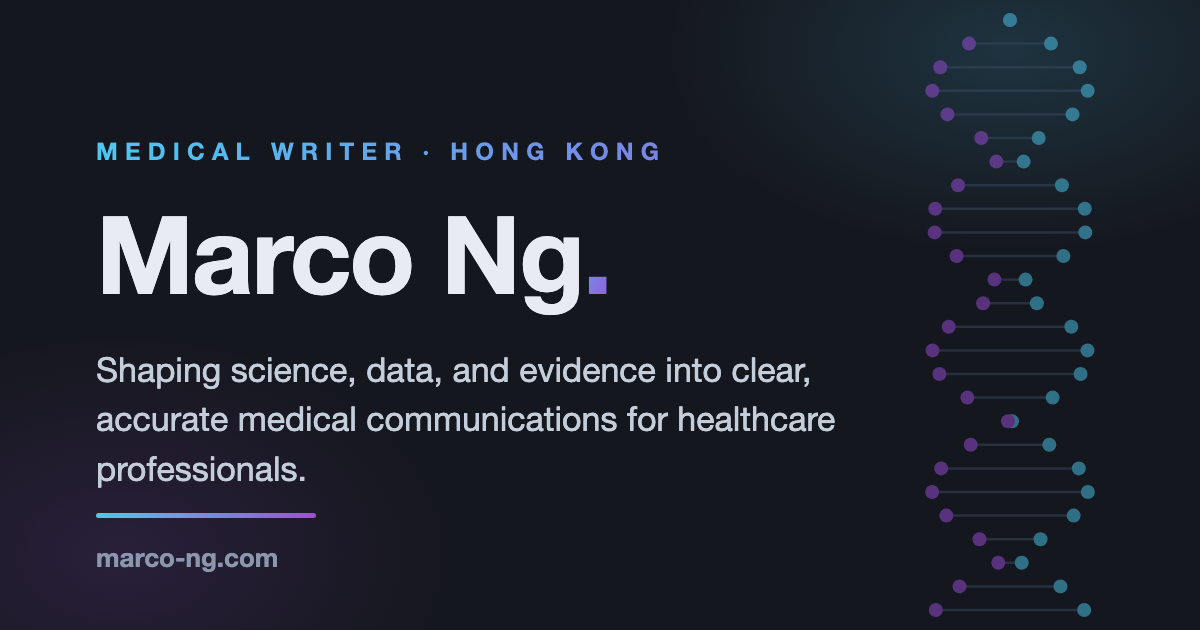
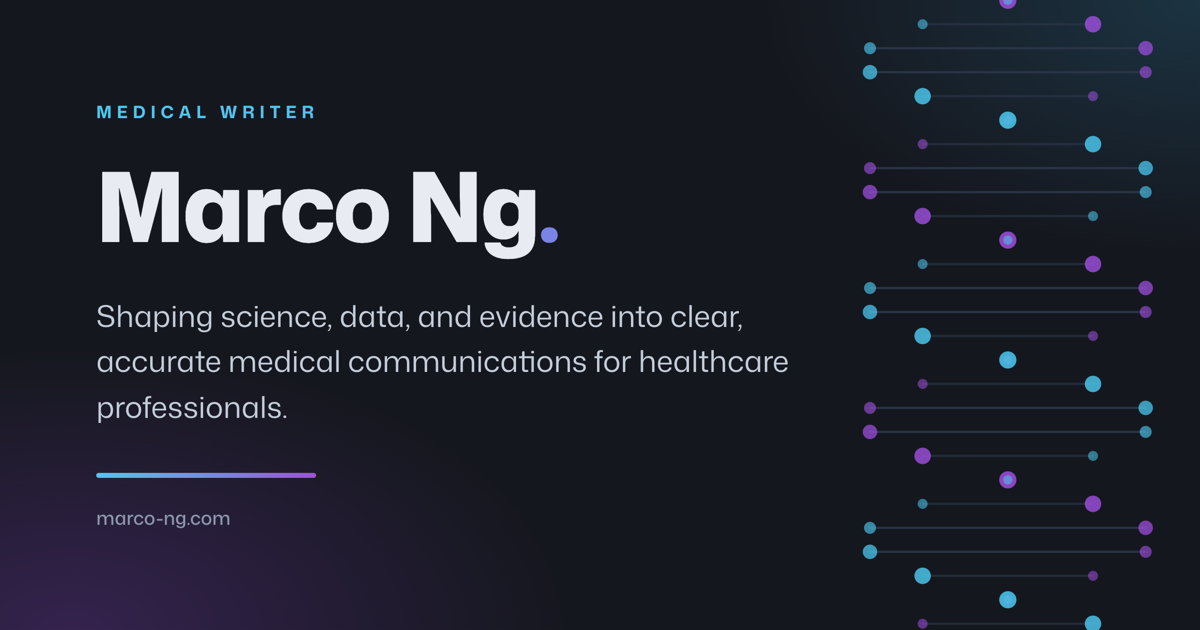
Remove Hong Kong location information from the site
Ten places across markup, copy, structured data and one binary image.

Text and data:
- index.html: title, og:title, twitter:title and og:image:alt lose "in Hong
  Kong"; the meta description and the <noscript> fallback lose the phrase.
- index.html JSON-LD: the whole "address" property goes, not just its value.
  A PostalAddress with no locality asserts nothing, and address is optional
  on schema.org/Person. This one was machine-readable and would have kept
  feeding search engines' entity graphs after the visible copy was clean.
- contactLinks: the "Based in: Hong Kong" row goes; a second number is added
  alongside the existing one. The rows are labelled "Phone" and "Phone (alt)"
  rather than by country, since "Phone (HK)" would reintroduce exactly the
  string being removed.
- Contact.jsx: footer tag becomes "Medical writer". The map's React key moves
  from link.label to link.value — two phone rows make label collisions likely,
  and duplicate keys silently corrupt reconciliation.
- README.md and CLAUDE.md, since the repo is public.

og-image.png was the one a find-and-replace could never reach: it renders
"MEDICAL WRITER · HONG KONG" as pixels, so every link preview would have kept
showing the location. It had no source file, so tools/og-image.html is added
as one — colours sampled from the original rather than guessed, helix rebuilt
parametrically from the measured 240px period and 145px amplitude. Rendered at
[…]

diff --git a/tools/og-image.html b/tools/og-image.html
@@ -1,0 +1,187 @@
+<!doctype html>
+<html lang="en">
+
+<head>
+  <meta charset="UTF-8" />
+  <title>og-image source — Marco Ng</title>
+
+  <!--
+    SOURCE FOR public/og-image.png (1200x630 social share card).
+
+    The PNG used to be a committed binary with no source, which meant a one-word
+    copy change needed a design tool. Keep this file in step with the PNG.
+
+    To re-render (needs Chrome; run from the repo root):
+      python3 -m http.server 8099 &
+      "/Applications/Google Chrome.app/Contents/MacOS/Google Chrome" \
+        --headless=new --remote-debugging-port=9222 --user-data-dir=/tmp/og-chrome \
+        about:blank &
+      # drive Page.captureScreenshot at deviceScaleFactor 2 (2400x1260), then:
+      sips -z 630 1200 shot.png --out public/og-image.png
+
+    Rendering at 2x and downscaling is what keeps the type crisp; a straight 1x
+    screenshot renders the wordmark noticeably softer.
+
+    Lives in tools/ rather than public/ deliberately — anything in public/ is
+    copied into dist/ and served, and this is build tooling, not a site asset.
+
+    Colours below were sampled from the original PNG rather than guessed, so the
+    card keeps its exact palette. #15171e is the site's own background token.
+  -->
+
+  <link rel="preconnect" href="https://fonts.googleapis.com" />
+  <link rel="preconnect" href="https://fonts.gstatic.com" crossorigin />
+  <link rel="stylesheet"
+    href="https://fonts.googleapis.com/css2?family=Mona+Sans:ital,wght@0,200..900;1,200..900&display=swap" />
+
+  <style>
+    :root {
+      --ground: #15171e;
+      --cyan: #4dc8f0;
+      --periwinkle: #7986e6;
+      --violet: #9c50de;
+      --heading: #e8ebf2;
+      --body: #c4cdda;
+      --muted: #8b97ad;
+      --rung: #273040;
+    }
+
+    * { margin: 0; padding: 0; box-sizing: border-box; }
+
+    body {
+      width: 1200px;
+      height: 630px;
+      overflow: hidden;
+      position: relative;
+      background: var(--ground);
+      font-family: "Mona Sans", system-ui, -apple-system, "Segoe UI", sans-serif;
+      -webkit-font-smoothing: antialiased;
+    }
+
+    /* the two corner washes the original carries: violet low-left, teal high-right */
+    .glow {
+      position: absolute;
+      inset: 0;
+      background:
+        radial-gradient(58% 62% at 6% 100%, rgba(126, 62, 190, 0.30), transparent 72%),
+        radial-gradient(52% 58% at 100% 0%, rgba(46, 132, 168, 0.26), transparent 70%);
+    }
+
+    .card {
+      position: absolute;
+      inset: 0;
+      padding: 0 96px;
+      display: flex;
+      flex-direction: column;
+      justify-content: center;
+    }
+
+    .eyebrow {
+      font-size: 17px;
+      font-weight: 700;
+      letter-spacing: 0.30em;
+      text-transform: uppercase;
+      background: linear-gradient(90deg, var(--cyan), #60abeb);
+      -webkit-background-clip: text;
+      background-clip: text;
+      color: transparent;
+      margin-bottom: 34px;
+    }
+
+    .wordmark {
+      font-size: 96px;
+      font-weight: 800;
+      letter-spacing: -0.022em;
+      line-height: 1;
+      color: var(--heading);
+      margin-bottom: 40px;
+    }
+
+    .wordmark .dot { color: #7a84e5; }
+
+    .lede {
+      font-size: 30px;
+      font-weight: 400;
+      line-height: 1.52;
+      color: var(--body);
+      max-width: 745px;
+      margin-bottom: 44px;
+    }
+
+    .rule {
+      width: 220px;
+      height: 5px;
+      border-radius: 999px;
+      background: linear-gradient(90deg, var(--cyan), var(--violet));
+      margin-bottom: 26px;
+    }
+
+    .url { font-size: 19px; font-weight: 500; color: var(--muted); }
+
+    /* decorative motif; bleeds off the top and bottom edges like the original */
+    #helix { position: absolute; top: 0; left: 858px; width: 300px; height: 630px; }
+  </style>
+</head>
+
+<body>
+  <div class="glow"></div>
+
+  <svg id="helix" viewBox="0 0 300 630" aria-hidden="true"></svg>
+
+  <div class="card">
+    <p class="eyebrow">Medical Writer</p>
+    <h1 class="wordmark">Marco Ng<span class="dot">.</span></h1>
+    <p class="lede">
+      Shaping science, data, and evidence into clear, accurate medical
+      communications for healthcare professionals.
+    </p>
+    <div class="rule"></div>
+    <p class="url">marco-ng.com</p>
+  </div>
+
+  <script>
+    // Parametric double helix: two sine strands 180 degrees out of phase, joined
+    // by rungs. Drawn rather than hand-placed so the motif stays editable —
+    // change PERIOD/AMP/STEP and it re-lays itself out.
+    (function () {
+      const svg = document.getElementById("helix");
+      const NS = "http://www.w3.org/2000/svg";
+      // PERIOD measured off the original: its narrow points (where the strands
+      // cross) sit ~120px apart, and those are a HALF period, so 240. AMP 145
+      // reproduces the original's 863..1153 horizontal span.
+      const CX = 150, AMP = 145, PERIOD = 240, STEP = 24;
+
+      const add = (name, attrs) => {
+        const el = document.createElementNS(NS, name);
+        for (const k in attrs) el.setAttribute(k, attrs[k]);
+        svg.appendChild(el);
+        return el;
+      };
+
+      // rungs first so the nodes sit on top of them
+      for (let y = -120; y <= 750; y += STEP) {
+        const p = Math.sin((y / PERIOD) * Math.PI * 2);
+        add("line", {
+          x1: CX + AMP * p, y1: y, x2: CX - AMP * p, y2: y,
+          stroke: "#2c3548", "stroke-width": 2.2, "stroke-linecap": "round",
+          opacity: (0.85 * Math.abs(p) + 0.15).toFixed(3),
+        });
+      }
+
+      for (let y = -120; y <= 750; y += STEP) {
+        const p = Math.sin((y / PERIOD) * Math.PI * 2);
+        const depth = Math.cos((y / PERIOD) * Math.PI * 2); // +1 near, -1 far
+        // near nodes read a little larger and brighter — that is what sells depth
+        // on a flat drawing, and keeps the two strands legible where they cross
+        const node = (cx, near, fill) => add("circle", {
+          cx, cy: y, r: (6.6 + 2.0 * near).toFixed(2), fill,
+          opacity: (0.52 + 0.33 * ((near + 1) / 2)).toFixed(3),
+        });
+        node(CX + AMP * p, depth, "#9d4edd");
+        node(CX - AMP * p, -depth, "#4cc9f0");
+      }
+    })();
+  </script>
+</body>
+
+</html>

diff --git a/index.html b/index.html
@@ -28,9 +28,9 @@
   <link rel="stylesheet"
     href="https://fonts.googleapis.com/css2?family=Mona+Sans:ital,wght@0,200..900;1,200..900&display=swap" />
 
-  <title>Marco Ng — Medical Writer in Hong Kong</title>
+  <title>Marco Ng — Medical Writer</title>
   <meta name="description"
-    content="Marco Ng is a medical writer in Hong Kong creating promotional and educational content for healthcare professionals — detail aids, MOA visuals, and data-driven medical communications for pharma and biotech." />
+    content="Marco Ng is a medical writer creating promotional and educational content for healthcare professionals — detail aids, MOA visuals, and data-driven medical communications for pharma and biotech." />
   <link rel="canonical" href="https://marco-ng.com/" />
   <meta name="theme-color" content="#15171e" />
 
@@ -38,17 +38,17 @@
   <meta property="og:type" content="website" />
   <meta property="og:url" content="https://marco-ng.com/" />
   <meta property="og:site_name" content="Marco Ng — Medical Writer" />
-  <meta property="og:title" content="Marco Ng — Medical Writer in Hong Kong" />
+  <meta property="og:title" content="Marco Ng — Medical Writer" />
   <meta property="og:description"
     content="Promotional and educational content for healthcare professionals — detail aids, MOA visuals, and data-driven medical communications for pharma and biotech." />
   <meta property="og:image" content="https://marco-ng.com/og-image.png" />
   <meta property="og:image:width" content="1200" />
   <meta property="og:image:height" content="630" />
-  <meta property="og:image:alt" content="Marco Ng — Medical Writer in Hong Kong" />
+  <meta property="og:image:alt" content="Marco Ng — Medical Writer" />
 
   <!-- Twitter card -->
   <meta name="twitter:card" content="summary_large_image" />
-  <meta name="twitter:title" content="Marco Ng — Medical Writer in Hong Kong" />
+  <meta name="twitter:title" content="Marco Ng — Medical Writer" />
   <meta name="twitter:description"
     content="Promotional and educational content for healthcare professionals — detail aids, MOA visuals, and data-driven medical communications for pharma and biotech." />
   <meta name="twitter:image" content="https://marco-ng.com/og-image.png" />
@@ -66,10 +66,6 @@
             "jobTitle": "Medical Writer",
             "url": "https://marco-ng.com/",
             "email": "mailto:ngyautin@gmail.com",
-            "address": {
-              "@type": "PostalAddress",
-              "addressLocality": "Hong Kong"
-            },
             "knowsAbout": [
               "Medical writing",
               "Medical communications",
@@ -105,9 +101,9 @@
   <div id="root"></div>
   <noscript>
     <p>
-      Marco Ng is a medical writer based in Hong Kong, creating promotional
-      and educational content for healthcare professionals across pharma and
-      biotech. Contact: ngyautin@gmail.com
+      Marco Ng is a medical writer creating promotional and educational
+      content for healthcare professionals across pharma and biotech.
+      Contact: ngyautin@gmail.com
     </p>
   </noscript>
   <script type="module" src="/src/main.jsx"></script>

diff --git a/src/sections/Contact.jsx b/src/sections/Contact.jsx
@@ -114,7 +114,7 @@ const Contact = () => {
             <ul className="contact-links contact-reveal">
               {contactLinks.map((link) =>
                 link.href ? (
-                  <li key={link.label}>
+                  <li key={link.value}>
                     <a
                       className="contact-link"
                       href={link.href}
@@ -131,7 +131,7 @@ const Contact = () => {
                     </a>
                   </li>
                 ) : (
-                  <li key={link.label}>
+                  <li key={link.value}>
                     <span className="contact-link is-static">
                       <span className="label">{link.label}</span>
                       <span className="value">{link.value}</span>
@@ -224,7 +224,7 @@ const Contact = () => {
         <div className="inner">
           <div className="footer-brand">
             <p className="footer-name">Marco Ng</p>
-            <p className="footer-tag">Medical writer · Hong Kong</p>
+            <p className="footer-tag">Medical writer</p>
           </div>
 
           <nav className="footer-nav">

diff --git a/src/sections/Hero.jsx b/src/sections/Hero.jsx
@@ -48,7 +48,7 @@ const Hero = () => {
                             <span className="hero-line">Medical Communications</span>
                         </h1>
                         <p className="text-white-50 md:text-xl relative z-10 pointer-events-none xl:max-w-xl">
-                            Hi! I'm Marco, a medical writer based in Hong Kong with a passion for transforming complex medical information.
+                            Hi! I'm Marco, a medical writer with a passion for transforming complex medical information.
                         </p>
                         <Button
                             className="md:w-80 md:h-16 w-60 h-12"

diff --git a/src/constants/index.js b/src/constants/index.js
@@ -190,9 +190,9 @@ const contactLinks = [
     href: "tel:+85264099880",
   },
   {
-    label: "Based in",
-    value: "Hong Kong",
-    href: null,
+    label: "Phone (alt)",
+    value: "+1 (902) 213 7839",
+    href: "tel:+19022137839",
   },
 ];
 

diff --git a/README.md b/README.md
@@ -1,6 +1,6 @@
 # Marco Ng — Portfolio
 
-A personal portfolio for **Marco Ng**, a medical writer based in Hong Kong who specialises in promotional and educational content for healthcare professionals (HCPs).
+A personal portfolio for **Marco Ng**, a medical writer who specialises in promotional and educational content for healthcare professionals (HCPs).
 
 The site is a single-page React application with an interactive 3D hero, scroll-driven animations, and purpose-built sections that reframe a traditional developer portfolio around medical communications. Motion is used deliberately and respects the visitor's reduced-motion preference throughout. Tucked in the footer is a **"For Fun" games hub** with two Phaser mini-games — **Immune Defense** (a browser tower-defense) and **Microwell** (a live-cell microfluidics minesweeper) — each lazy-loaded so it never affects the site's initial load.
 

diff --git a/CLAUDE.md b/CLAUDE.md
@@ -15,7 +15,7 @@ There is no test setup for the frontend. The Solidity contracts do have tests: `
 
 ## What this is
 
-A single-page personal portfolio for Marco Ng (a medical writer in Hong Kong), built on React 19 + Vite. It originated from the JS Mastery portfolio template, so `src/constants/index.js` still contains placeholder template data ("Adrian", fake testimonials, generic experience cards). When adding sections, replace the relevant placeholder data rather than treating it as real content.
+A single-page personal portfolio for Marco Ng (a medical writer), built on React 19 + Vite. It originated from the JS Mastery portfolio template, so `src/constants/index.js` still contains placeholder template data ("Adrian", fake testimonials, generic experience cards). When adding sections, replace the relevant placeholder data rather than treating it as real content.
 
 ## Architecture
 
